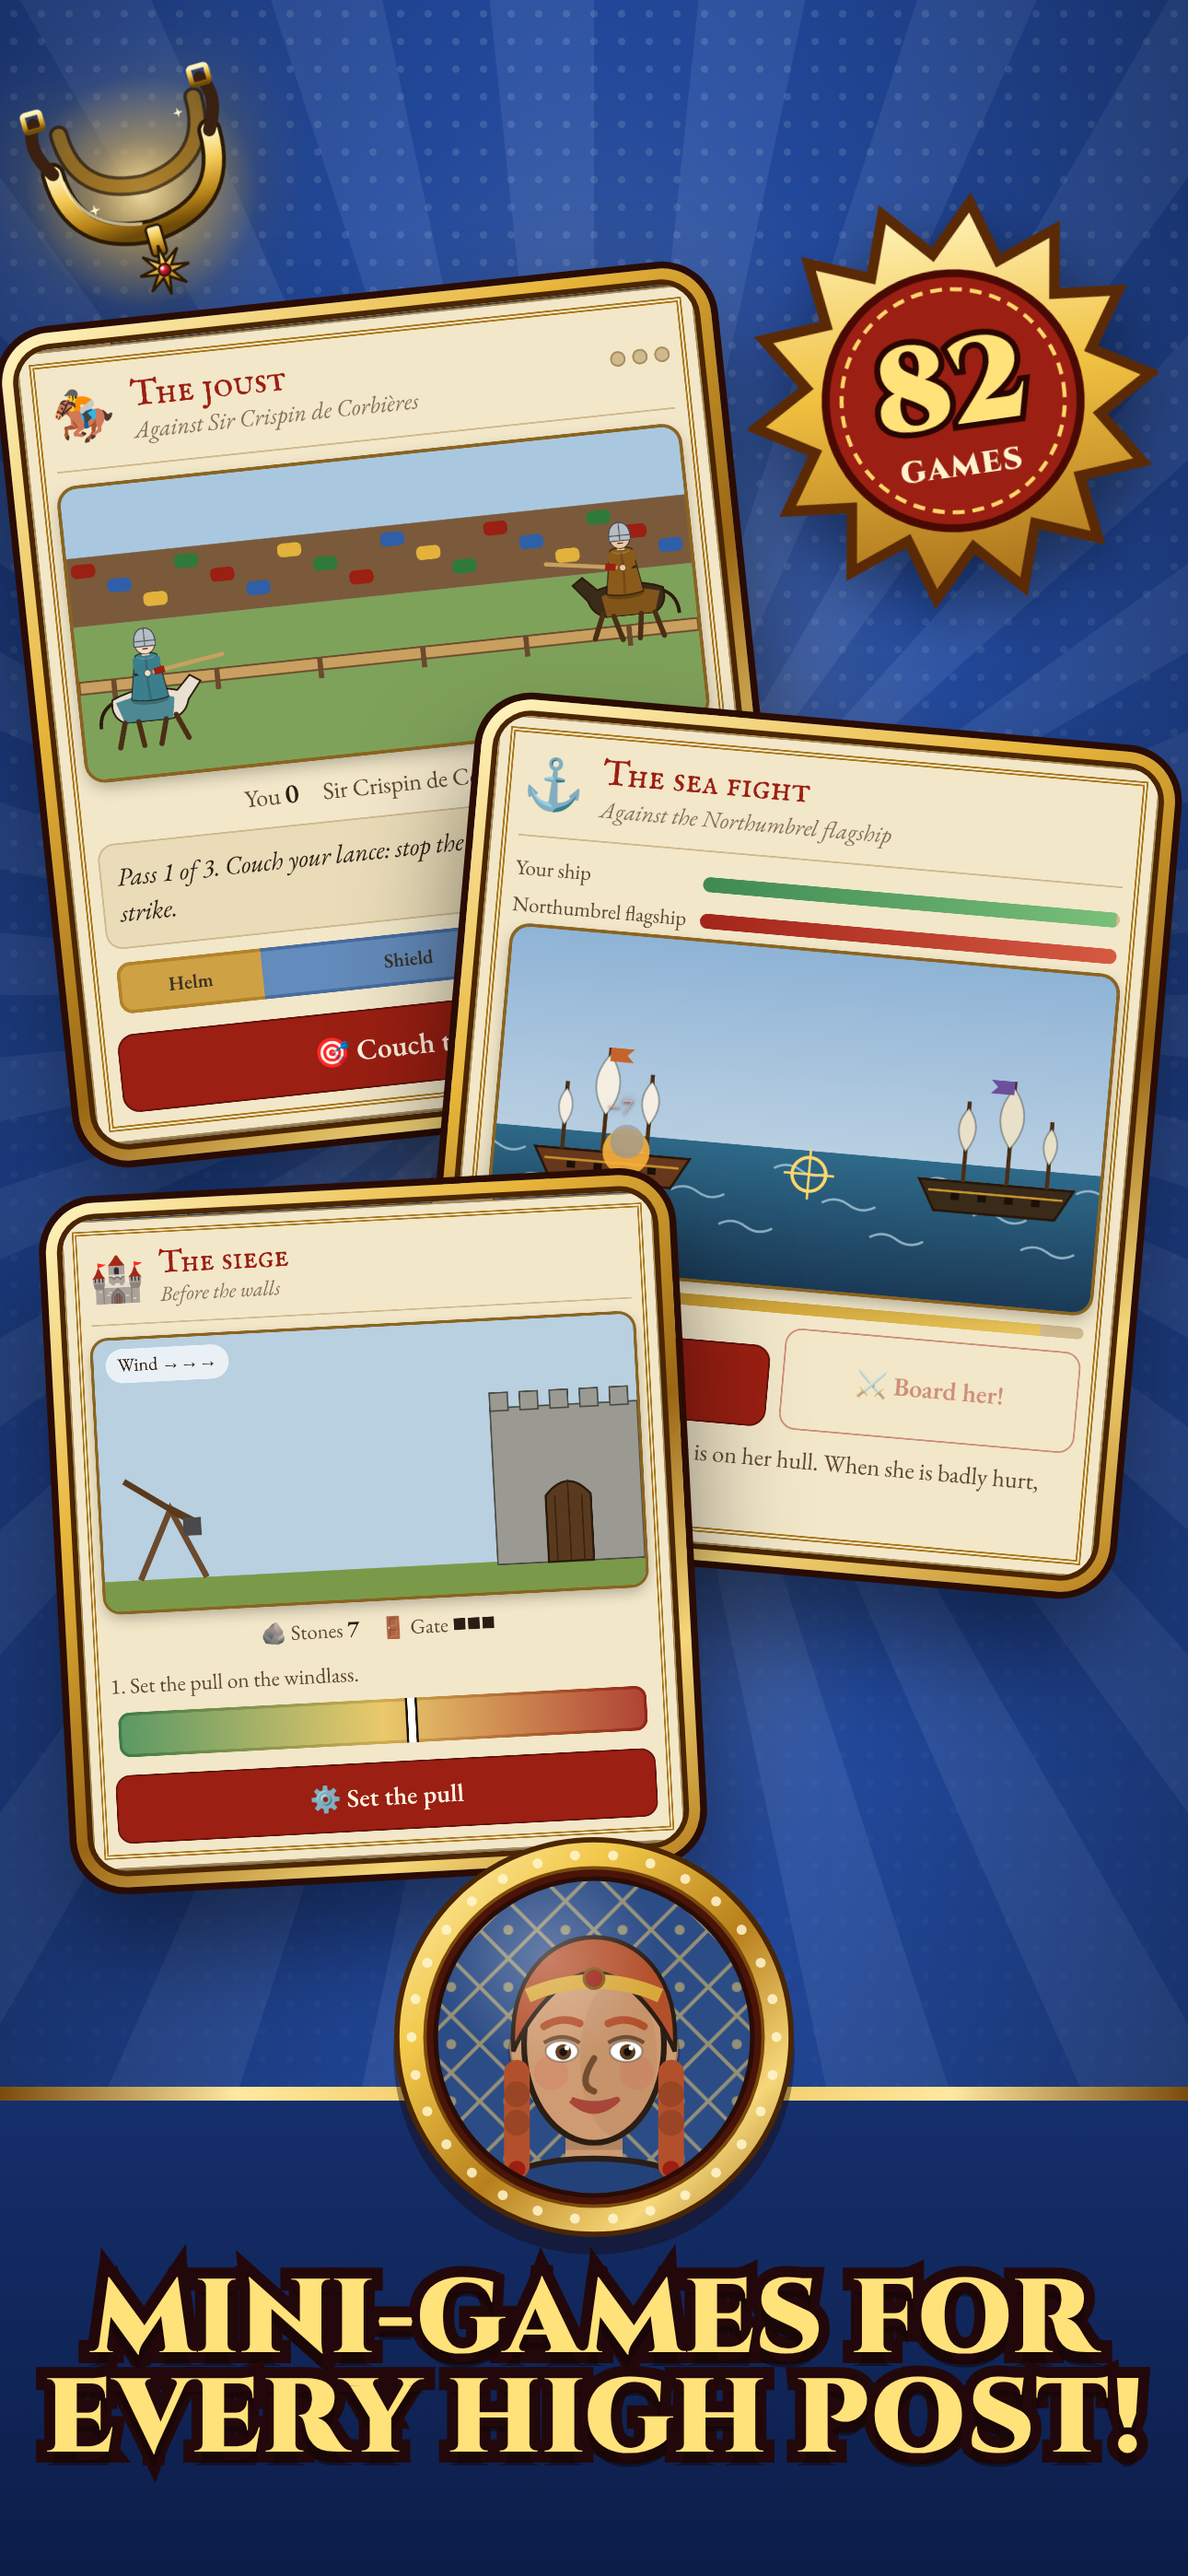
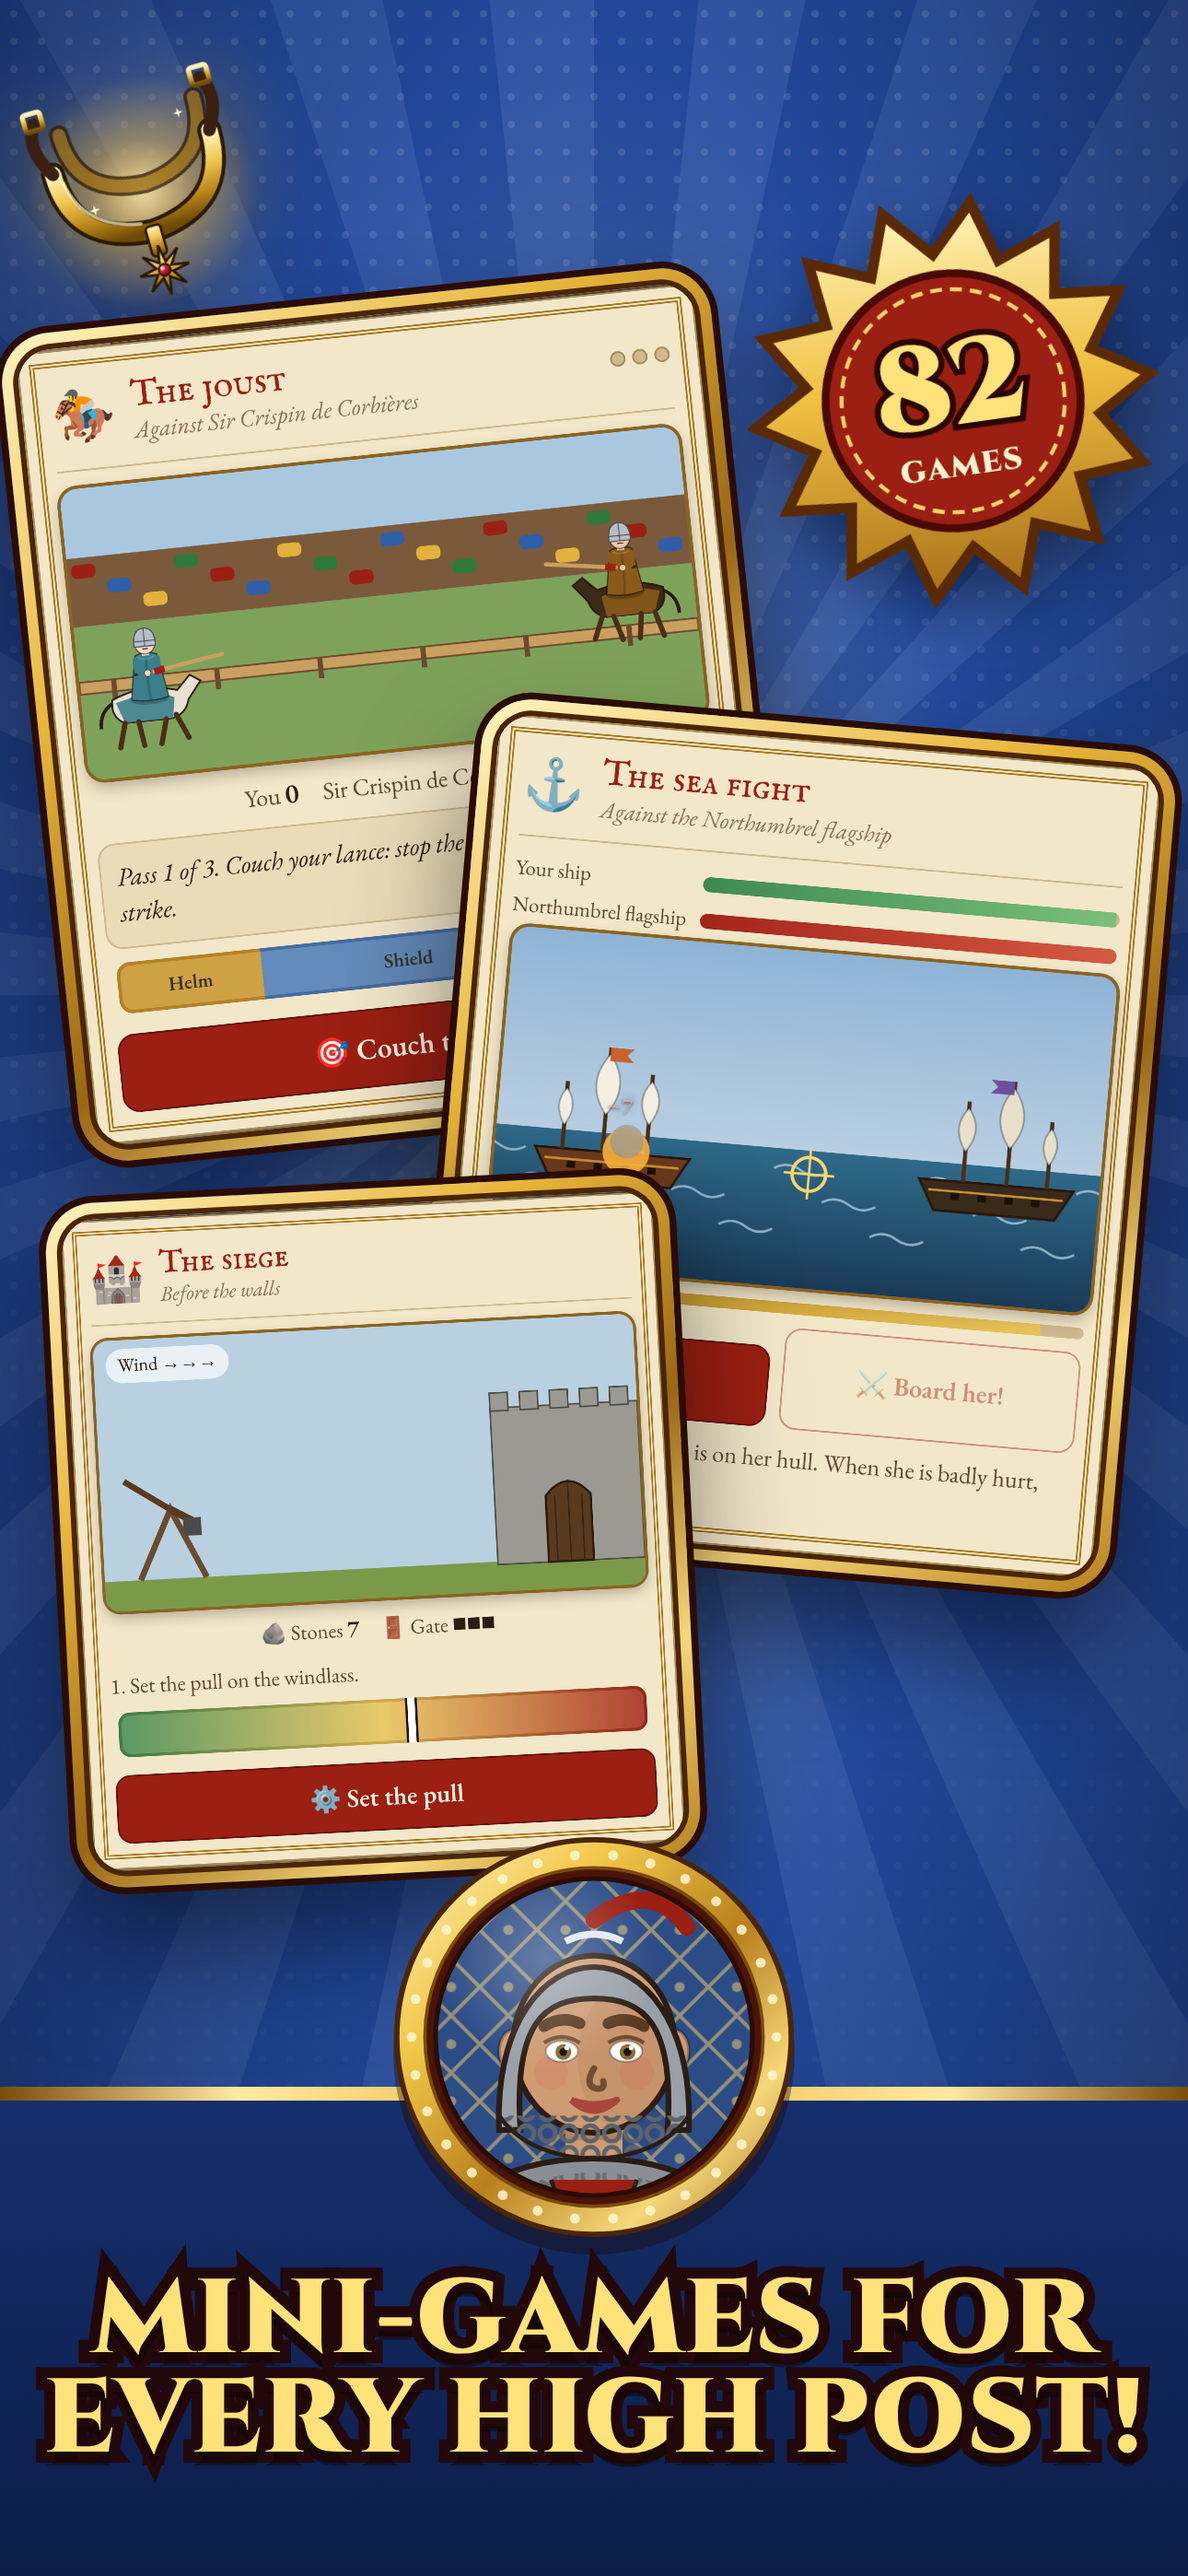
Promo pictures and header: everyone, not only the queen
The pictures now show the many people you can be (serf, milkmaid,
knight, abbess, outlaw, merchant, king, queen) instead of following one
woman who becomes queen. The header shows seven of them under "Serf or
sovereign: who will you be?". Not sent to Apple; waiting for approval.

Claude-Session: https://claude.ai/code/session_01Ng8y7vFwhLArsm3PAF3YVs

Changed region(s): [[0.4031, 0.7157, 0.5891, 0.8712]]

diff --git a/store/promo/README.md b/store/promo/README.md
@@ -1,14 +1,14 @@
 # App Store promo pictures
 
-BitLife-style pictures that follow one life, Agnes Atwood's: born a serf, a goose girl, a lady at court, a queen, and a legend. Each picture is the real game with a bold caption, and Agnes's face in a medallion at the bottom.
+BitLife-style pictures that show everyone you can be: a serf, a milkmaid, a knight, an abbess, an outlaw, a merchant, a king or a queen. Each picture is the real game with a bold caption and a gold medallion of the person it's about. Picture 4 follows Hob Thatcher from swineherd to king; picture 6 is his gravestone.
 
 ## Screenshots: 1290 × 2796 (6.7-inch iPhone)
 
 | File | Caption |
 | --- | --- |
-| MudCrowns_promo_1.png | Live a whole medieval life! |
+| MudCrowns_promo_1.png | Who will you be? |
 | MudCrowns_promo_2.png | Every choice matters! |
-| MudCrowns_promo_3.png | A game for every high post! |
+| MudCrowns_promo_3.png | Mini-games for every high post! |
 | MudCrowns_promo_4.png | From mud to crown! |
 | MudCrowns_promo_5.png | Raise a royal family! |
 | MudCrowns_promo_6.png | Become a legend! |
@@ -17,7 +17,7 @@ Nothing here is sent to Apple automatically. When approved, upload in App Store 
 
 ## Product page header: 3840 × 1646 (21:9)
 
-`MudCrowns_header_3840x1646.png` is the wide banner at the top of the product page, like BitLife's: the name in gold on sun rays, a gold ribbon, and Agnes's life in six gold medallions (born a serf, goose girl, dairymaid, at court, queen, legend). The name and ribbon sit inside Apple's central safe area (1646 × 661 at x 1097, y 493); the medallions fill the width a phone shows. No transparency. `preview/phone_preview_header.png` is a mock-up of how it looks on a phone, for checking only: do not upload it.
+`MudCrowns_header_3840x1646.png` is the wide banner at the top of the product page, like BitLife's: the name in gold on sun rays, a gold ribbon ("Serf or sovereign: who will you be?"), and seven different people in gold medallions (serf, milkmaid, knight, king, queen, abbess, outlaw). The name and ribbon sit inside Apple's central safe area (1646 × 661 at x 1097, y 493); the medallions fill the width a phone shows. No transparency. `preview/phone_preview_header.png` is a mock-up of how it looks on a phone, for checking only: do not upload it.
 
 Headers are new with iOS 27 and only show on iOS 27 or later. Upload: your app, the version, Product Page Information, Header and Search Results, Header. Drag the file in, Save, then submit the version for review; it goes live when that version is approved and released. Use Preview there to see how it looks.
 
